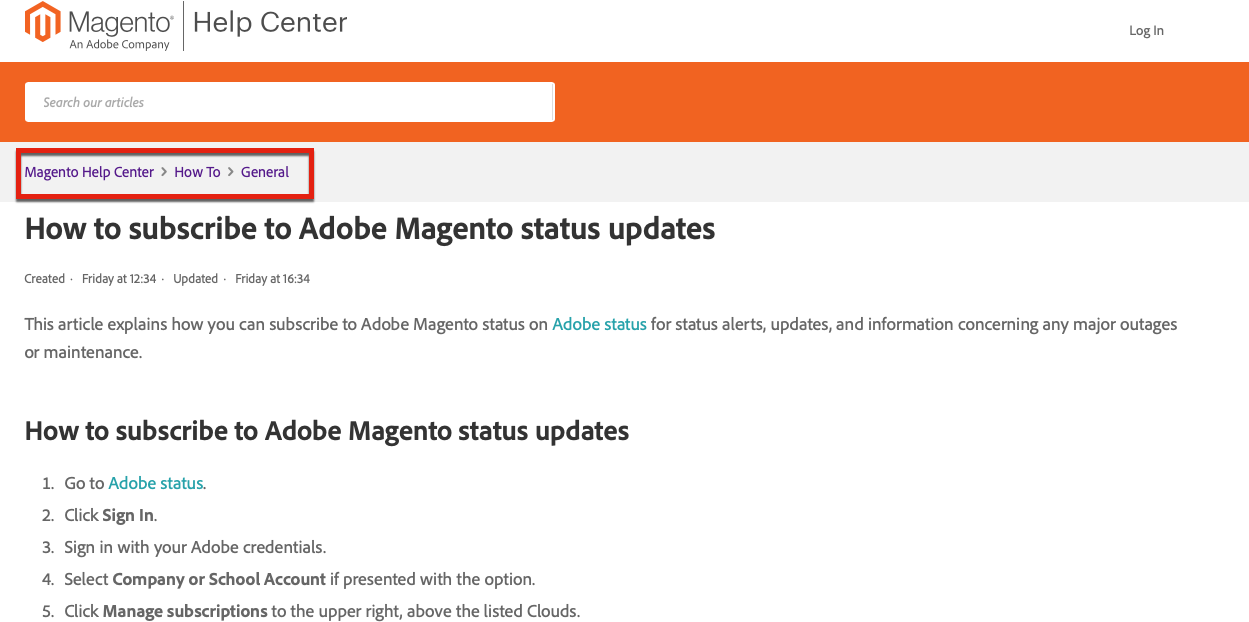
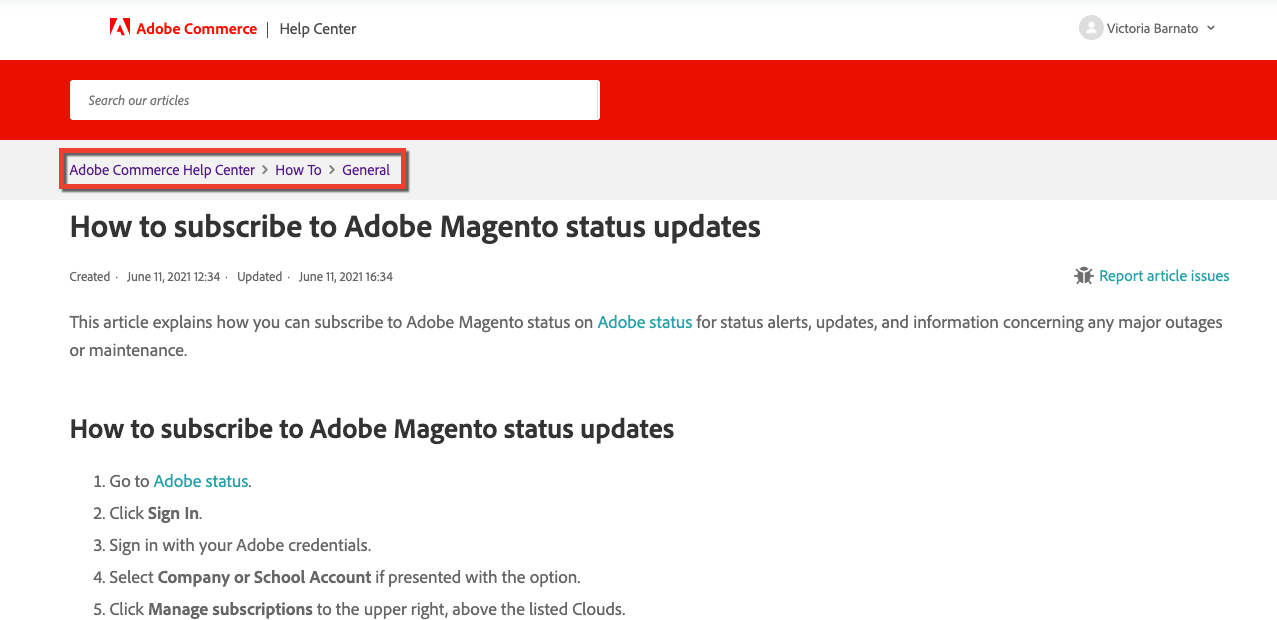
rebrand 09.16.2021
rebrand 09.16.2021 - vicky - part 2

diff --git a/src/announcements/help-center-news/github-repo-for-external-contributions.md b/src/announcements/help-center-news/github-repo-for-external-contributions.md
@@ -1,17 +1,16 @@
 ---
-title: Adobe Commerce Support KB starts accepting contributions
-labels: announcements,help center,GitHub,community,contributions,Adobe Commerce
+title: Adobe Commerce Support Knowledge Base starts accepting contributions
+labels: announcements,help center,GitHub,community,contributions,Adobe Commerce,Magento
 ---
 
-Starting June 15th, this Adobe Commerce Support Knowledge Base team starts accepting direct edits and new articles contributions from external Magento community through the [magento/knowledge-base](https://github.com/magento/knowledge-base) GitHub repo!
+Starting June 15th, the Adobe Commerce Support Knowledge Base team starts accepting direct edits and new article contributions from external Adobe Commerce community through the [magento/knowledge-base](https://github.com/magento/knowledge-base) GitHub repo!
 
 Noticed a typo in one of our articles or incomplete troubleshooting steps?
 You can now fix it yourself and get contribution points!
 
 ## Contribute
 
-We welcome all kinds of contributions, from minor typo corrections to complete troubleshooting articles. Contributing to this repo gets you reward points, similar to contributing to Magento code and Magento Developer Documentation. See [Contribution reward points](https://github.com/magento/knowledge-base/blob/main/docs/contribution-points.md) for details.
-
+We welcome all kinds of contributions, from minor typo corrections to complete troubleshooting articles. Contributing to this repo gets you reward points, similar to contributing to Adobe Commerce code and our developer documentation. See [Contribution reward points](https://github.com/magento/knowledge-base/blob/main/docs/contribution-points.md) for details.
 
 ### General contribution flow
 
@@ -23,7 +22,7 @@ We welcome all kinds of contributions, from minor typo corrections to complete t
     * Markdown Linting test - making sure markdown syntax is correct.
     * File structure validation test - making sure the commit is done according to the [required file structure](https://github.com/magento/knowledge-base/blob/main/.github/CONTRIBUTING.md#file_structure).
 1. PR approvals flow:
-    1. Knowledge Base (KB) writers review the PR within several days' time frame and add labels.
+    1. The Support Knowledge Base (KB) writers review the PR within several days' time frame and add labels.
     1. KB writer can approve/deny/request changes.
     1. If approved, KB writer adds labels corresponding to the level of input provided in PR and internal subject matter expert (SME) reviews the PR.
     1. SME can approve/deny/request changes.

diff --git a/src/how-to/general/magento-commerce-cloud-cpu-allocation-calculation.md b/src/how-to/general/magento-commerce-cloud-cpu-allocation-calculation.md
@@ -1,13 +1,13 @@
 ---
-title: "Magento Commerce Cloud: CPU allocation calculation"
-labels: CPU Allocation,calculation,configuration,hardware resources,phCPU,query
+title: "Adobe Commerce on cloud infrastructure: CPU allocation calculation"
+labels: CPU Allocation,calculation,configuration,hardware resources,phCPU,query,Adobe Commerce,cloud infrastructure,Magento
 ---
 
 The attached article provides detailed guidelines on what metrics should be used when making decisions about CPU allocation, and how to calculate them.
 
 ## Affected products and versions
 
-Magento Commerce Cloud 2.3.x, 2.4.x.
+Adobe Commerce on cloud infrastructure 2.3.x, 2.4.x.
 
 ## Attached files
 
